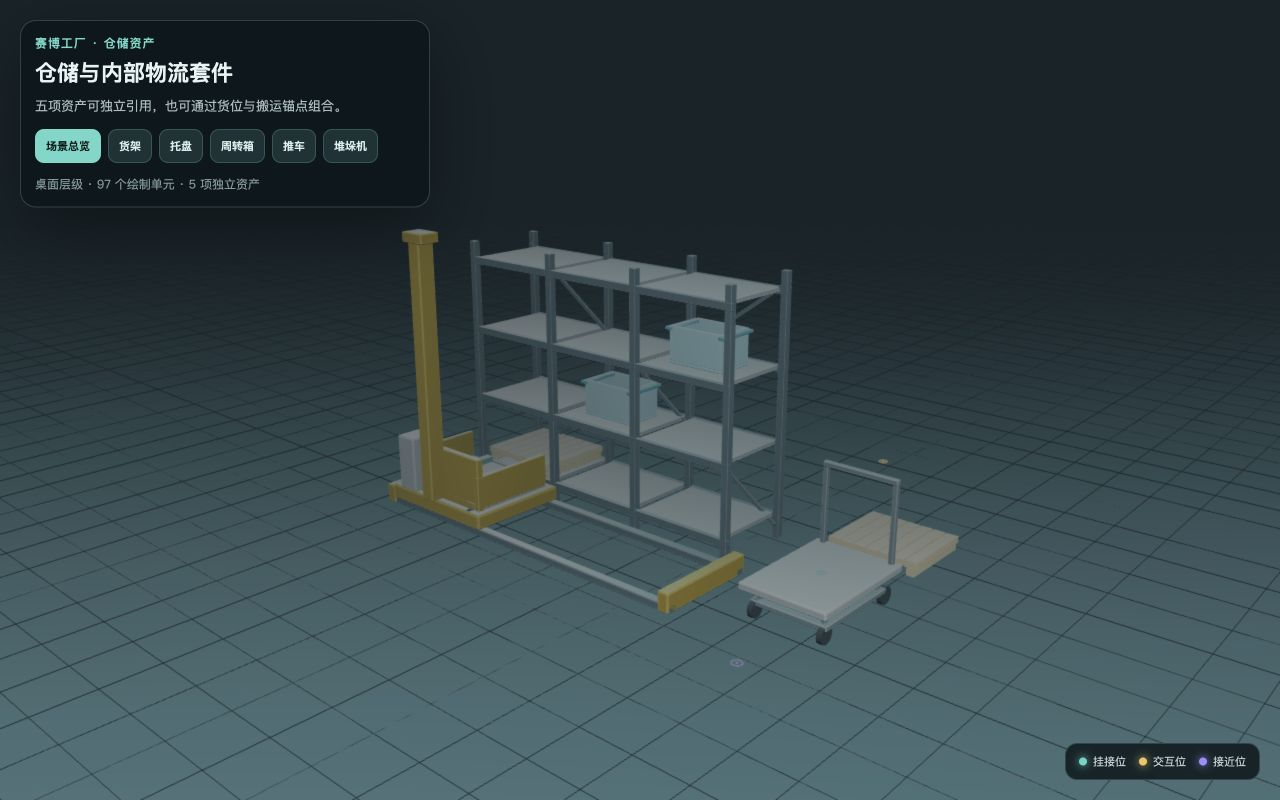
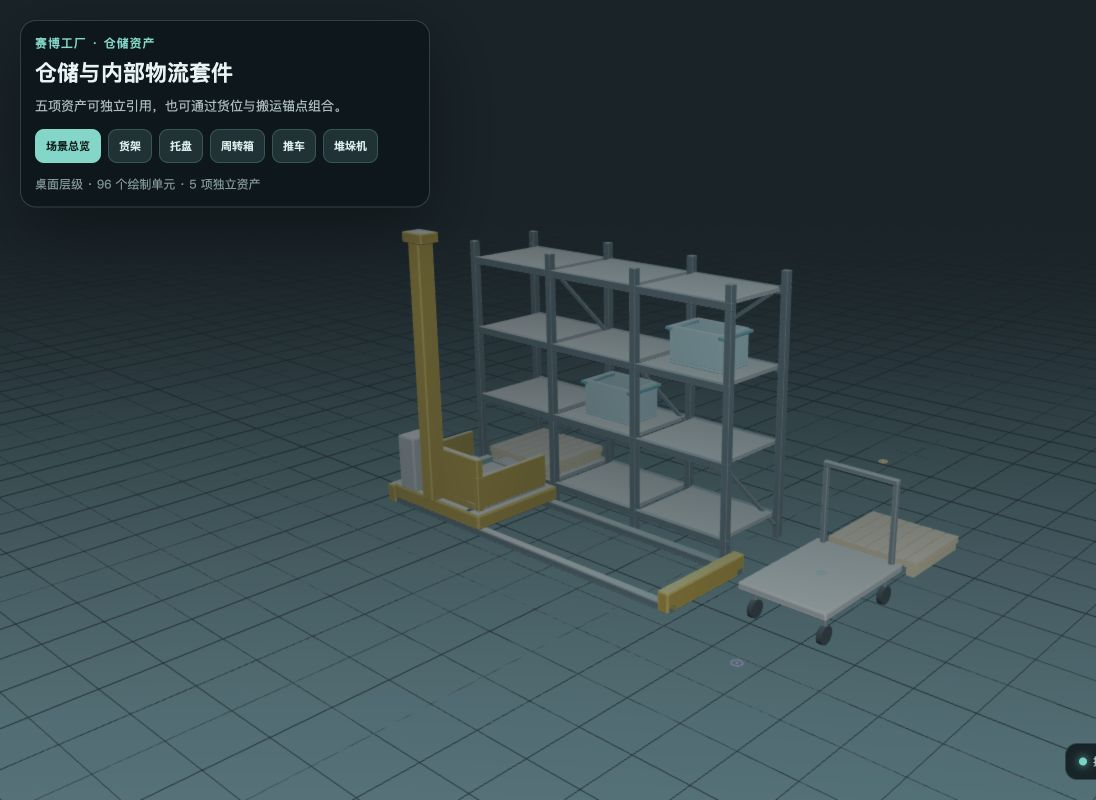
fix: simplify warehouse cart deck

diff --git a/domain-packages/cyber-factory/models/warehouse/model.ts b/domain-packages/cyber-factory/models/warehouse/model.ts
@@ -465,17 +465,16 @@ export function createWarehouseCart(
   const parameters = normalizeWarehouseCartParameters(input);
   const wheelRadius = 82;
   const deckThickness = 72;
-  const lowerDeckCenterY = 145;
-  const lowerDeckThickness = 48;
-  const lowerDeckTop = lowerDeckCenterY + lowerDeckThickness / 2;
+  const wheelOffsetX = parameters.width / 2 - 88;
+  const wheelOffsetZ = parameters.depth / 2 - 130;
+  const wheelTop = wheelRadius * 2;
   const mainDeckBottom = parameters.deckHeight - deckThickness / 2;
-  const supportHeight = mainDeckBottom - lowerDeckTop;
-  const supportY = lowerDeckTop + supportHeight / 2;
+  const supportHeight = mainDeckBottom - wheelTop;
+  const supportY = wheelTop + supportHeight / 2;
   const handleZ = -parameters.depth / 2 + 42;
   const postHeight = parameters.handleHeight - parameters.deckHeight;
   const frame: ModelFeature[] = [
     box("warehouse-cart-main-deck", "推车主承载台", [parameters.width, deckThickness, parameters.depth], [0, parameters.deckHeight, 0], cartDeckAppearance, 18),
-    box("warehouse-cart-lower-deck", "推车下层承载台", [parameters.width * 0.88, lowerDeckThickness, parameters.depth * 0.78], [0, lowerDeckCenterY, 30], cartAppearance, 12),
     box("warehouse-cart-left-handle-post", "推车左把手立柱", [46, postHeight, 46], [-parameters.width * 0.4, parameters.deckHeight + postHeight / 2, handleZ], cartAppearance, 8),
     box("warehouse-cart-right-handle-post", "推车右把手立柱", [46, postHeight, 46], [parameters.width * 0.4, parameters.deckHeight + postHeight / 2, handleZ], cartAppearance, 8),
     box("warehouse-cart-handle-bar", "推车横向把手", [parameters.width * 0.86, 54, 54], [0, parameters.handleHeight, handleZ], cartAppearance, 14),
@@ -487,9 +486,9 @@ export function createWarehouseCart(
         `${xSign < 0 ? "左" : "右"}${zSign < 0 ? "后" : "前"}承重支架`,
         [42, supportHeight, 42],
         [
-          xSign * (parameters.width * 0.44 - 60),
+          xSign * wheelOffsetX,
           supportY,
-          30 + zSign * (parameters.depth * 0.39 - 60),
+          zSign * wheelOffsetZ,
         ],
         cartAppearance,
         6,
@@ -504,7 +503,7 @@ export function createWarehouseCart(
         `${xSign < 0 ? "左" : "右"}${zSign < 0 ? "后" : "前"}轮`,
         wheelRadius,
         48,
-        [xSign * (parameters.width / 2 - 88), wheelRadius, zSign * (parameters.depth / 2 - 130)],
+        [xSign * wheelOffsetX, wheelRadius, zSign * wheelOffsetZ],
         rubberAppearance,
         [0, 0, 90],
       ));
@@ -512,7 +511,7 @@ export function createWarehouseCart(
   }
   return {
     name: "参数化仓储推车",
-    description: "带双层承载台、推行把手和四轮的内部物流推车。",
+    description: "带单层承载台、推行把手和四个接地脚轮的内部物流推车。",
     unit: "mm",
     featureGraph: {
       version: 1,

diff --git a/domain-packages/cyber-factory/models/warehouse/warehouse.test.ts b/domain-packages/cyber-factory/models/warehouse/warehouse.test.ts
@@ -276,13 +276,15 @@ describe("warehouse and internal logistics asset kit", () => {
     expect(plan.steps.at(-1)?.pose).toEqual(plan.steps[0]?.pose);
   });
 
-  it("grounds every cart wheel and visibly supports the main deck", () => {
+  it("uses one cart deck with grounded wheels connected by four supports", () => {
     const features = createWarehouseCartDefinition().createModel().featureGraph!.features;
     const wheels = features.filter(({ id }) => id.startsWith("warehouse-cart-wheel-"));
     const supports = features.filter(({ id }) => id.startsWith("warehouse-cart-support-"));
     const mainDeck = features.find(({ id }) => id === "warehouse-cart-main-deck");
-    const lowerDeck = features.find(({ id }) => id === "warehouse-cart-lower-deck");
 
+    expect(features.filter(({ id }) => id.includes("-deck")).map(({ id }) => id)).toEqual([
+      "warehouse-cart-main-deck",
+    ]);
     expect(wheels).toHaveLength(4);
     for (const wheel of wheels) {
       expect(wheel.type).toBe("cylinder");
@@ -290,17 +292,23 @@ describe("warehouse and internal logistics asset kit", () => {
     }
     expect(supports).toHaveLength(4);
     expect(mainDeck?.type).toBe("box");
-    expect(lowerDeck?.type).toBe("box");
-    if (mainDeck?.type !== "box" || lowerDeck?.type !== "box") return;
+    if (mainDeck?.type !== "box") return;
     for (const support of supports) {
       expect(support.type).toBe("box");
       if (support.type !== "box") continue;
+      const wheel = wheels.find(({ id }) => id === support.id.replace("-support-", "-wheel-"));
+      expect(wheel?.type).toBe("cylinder");
+      if (wheel?.type !== "cylinder") continue;
       expect(support.position[1] - support.parameters.height / 2).toBe(
-        lowerDeck.position[1] + lowerDeck.parameters.height / 2,
+        wheel.position[1] + wheel.parameters.radius,
       );
       expect(support.position[1] + support.parameters.height / 2).toBe(
         mainDeck.position[1] - mainDeck.parameters.height / 2,
       );
+      expect([support.position[0], support.position[2]]).toEqual([
+        wheel.position[0],
+        wheel.position[2],
+      ]);
     }
   });
 

diff --git a/domain-packages/cyber-factory/models/warehouse/manifest.ts b/domain-packages/cyber-factory/models/warehouse/manifest.ts
@@ -280,12 +280,12 @@ export function createWarehouseCartManifest(
   const allIds = featureIds(features);
   const wheelIds = allIds.filter((id) => id.includes("wheel"));
   const frameIds = allIds.filter((id) => !wheelIds.includes(id));
-  const mobileIds = allIds.filter((id) => id !== "warehouse-cart-lower-deck");
+  const mobileIds = allIds;
   return {
     schemaVersion: 1,
     id: "cyber-factory-warehouse-cart",
     displayName: "参数化仓储推车",
-    description: "带双层承载面、推行把手和四轮的内部物流推车。",
+    description: "带单层承载面、推行把手和四个接地脚轮的内部物流推车。",
     version: "1.0.0",
     kind: "asset",
     modelUnit: "mm",

diff --git a/domain-packages/cyber-factory/models/warehouse/README.md b/domain-packages/cyber-factory/models/warehouse/README.md
@@ -7,7 +7,7 @@
 - `cyber-factory-warehouse-rack`：按跨数、层数、单跨宽度、高度和深度生成货架；跨数与层数没有人为设置的上限，仅受运行设备资源约束；每个货位具有稳定 socket、前侧取货锚点和后侧补货锚点。
 - `cyber-factory-warehouse-pallet`：带顶部装载 socket 和前后货叉入口的木质托盘。
 - `cyber-factory-warehouse-tote`：带真实开放内腔、内容 socket 和双侧搬运锚点的塑料周转箱。
-- `cyber-factory-warehouse-cart`：带装载 socket、推行锚点、双层台面、四角承重支架和接地四轮的物流推车。
+- `cyber-factory-warehouse-cart`：带装载 socket、推行锚点、单层台面和四个接地脚轮的物流推车；四根轮架直接连接脚轮与承载台。
 - `cyber-factory-warehouse-stacker-crane`：默认采用覆盖三跨货架的 3.8 米轨道、2.6 米紧凑单立柱和 1 米货叉行程，载货台以 1.16 × 0.9 米为标准托盘保留净空；输入稳定格口 ID 后可生成确定性的取货或上货计划。
 
 所有模型使用毫米、`+y` 向上、`+z` 朝正面，底面基准为 `y = 0`。资产可独立引用，也可在预览中组合成仓储场景；组合预览会根据货架深度与载货台深度自动把拣选面贴到行走底座边缘。预览提供“场景总览”和五项独立资产标签页；进入单项资产后，可使用参数控件实时重建模型并恢复默认值。货架使用立柱、横梁和每层货板的分体碰撞体，不用整块碰撞体封死货位；移动 LOD 省略斜撑、握边或次要承载层。
